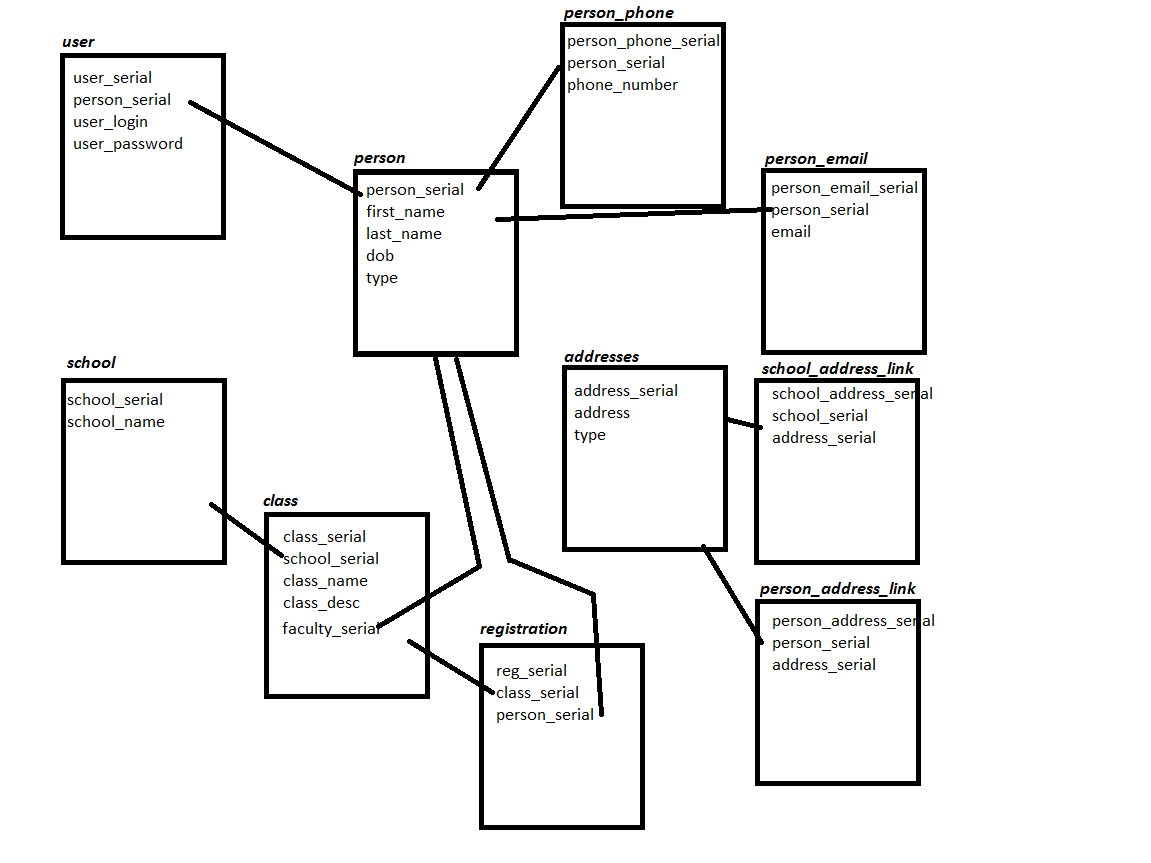
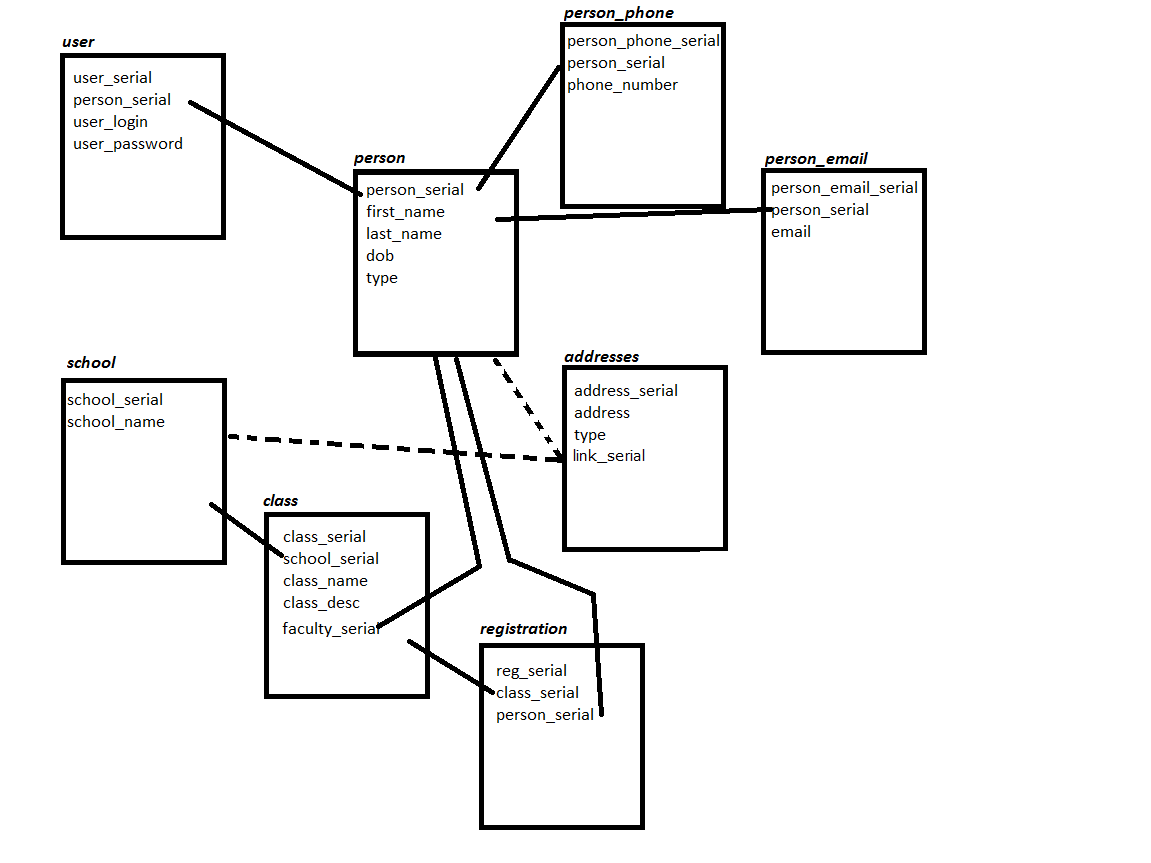
commit

diff --git a/lib/faculty_class_list_roster.rb b/lib/faculty_class_list_roster.rb
@@ -2,12 +2,15 @@
 
 #roster for all students in selected class
 m = Mysql.new("localhost","root","passwd")
-r = m.query("SELECT person.last_name, person.first_name, person_email.email
+r = m.query("SELECT person.last_name, person.first_name, person_email.email, person_phone.phone_number, addresses.address
 	    FROM registration
 	    	left join person on person.person_serial = registration.person_serial
 		left join class on regs.class_serial = class.class_serial
-		left join email on email.person_serial = person.person_serial
-	    WHERE class.class_serial = #{cserial}")
+		left join person_email on email.person_serial = person.person_serial
+		left join addresses on addresses.link_serial = person.person_serial
+		left join person_phone on person_phone.person_serial = person.person_serial
+	    WHERE class.class_serial = #{cserial}
+	    	and addresses.type = 'S' ")
 	#cserial is the class_serial of the selected class roster
 m.close
 
